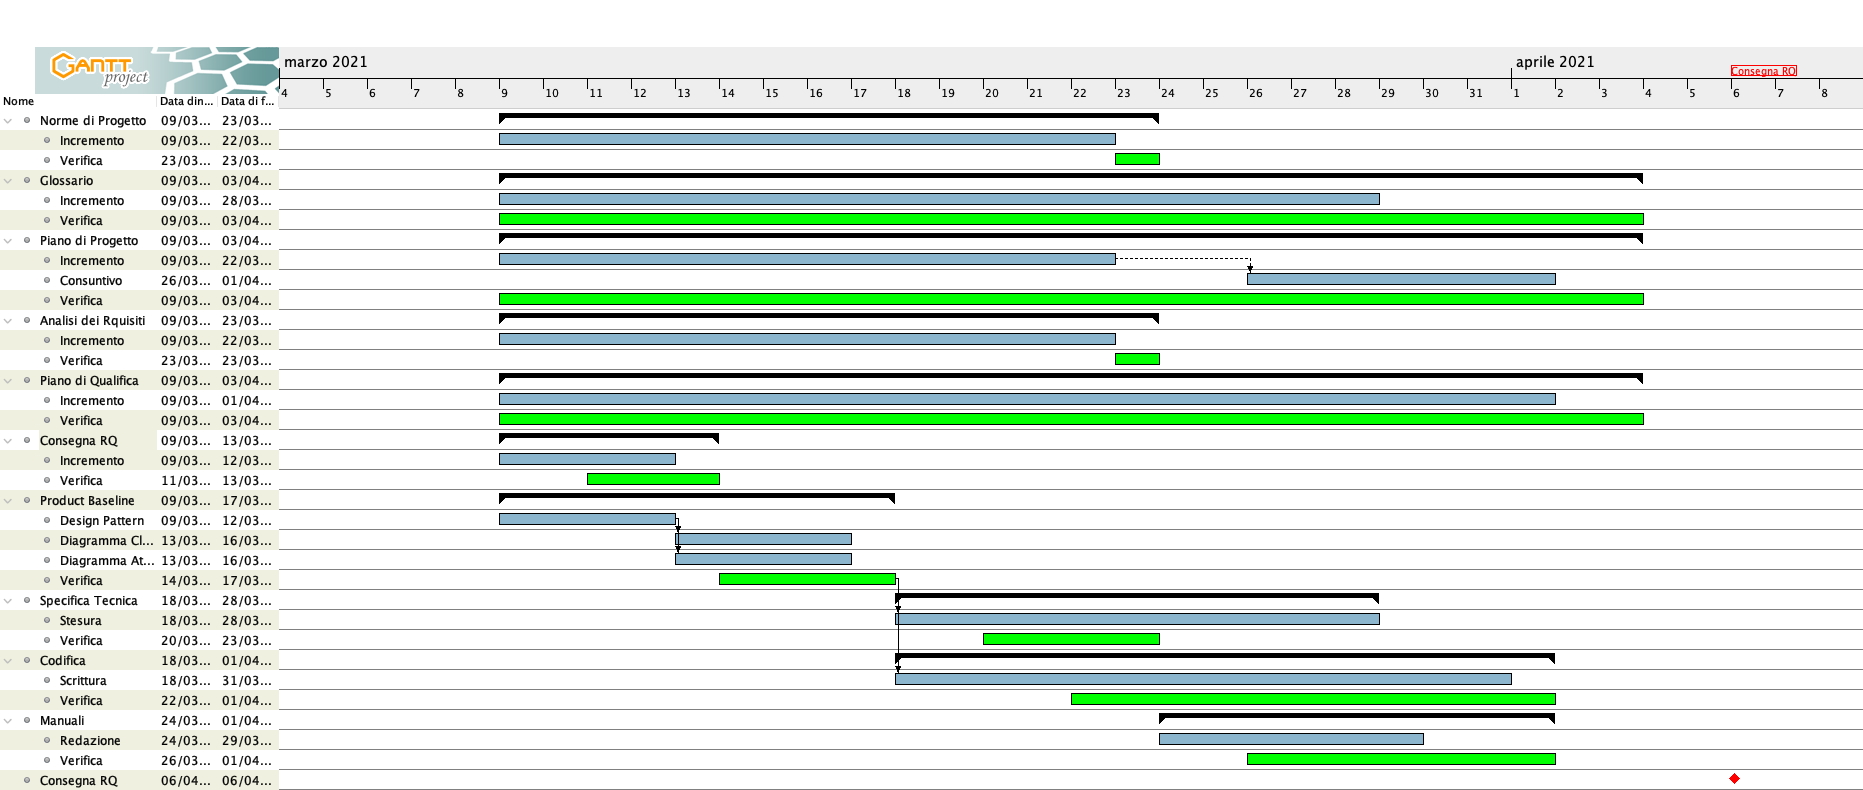
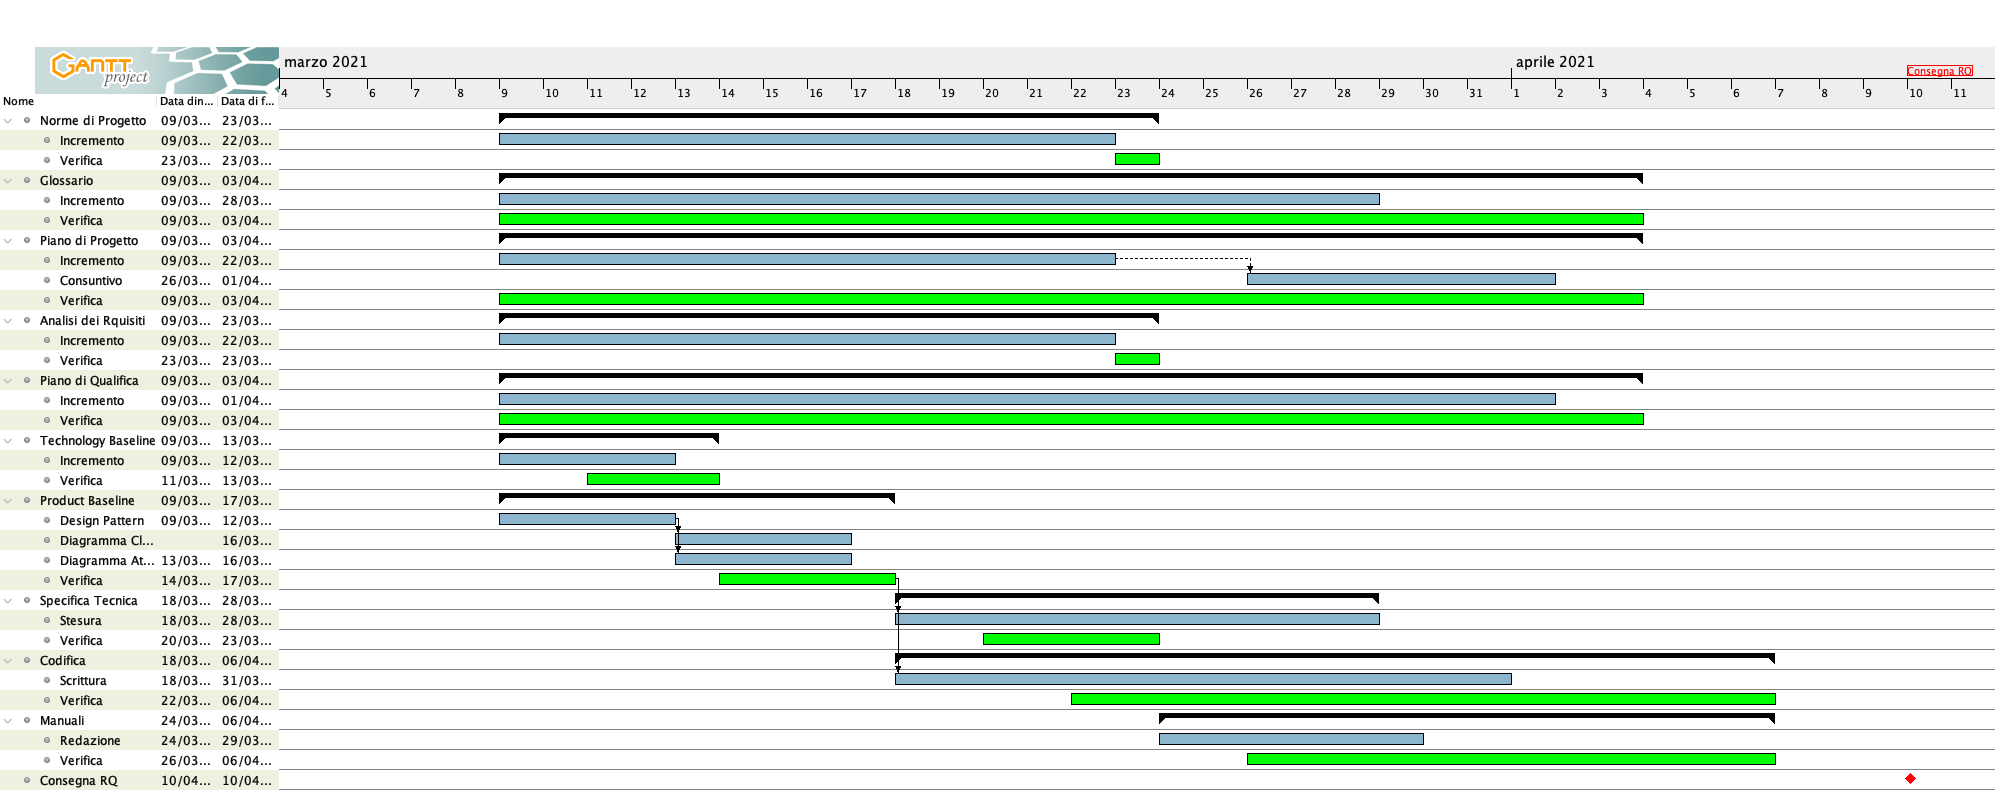
Correzione gantt e inserimento tabella incremento-requisiti

diff --git a/DocumentiPubblici/PianoDiProgetto/Sezioni/Sottosezioni/Pianificazione/ProgettazioneDiDettaglioECodifica.tex b/DocumentiPubblici/PianoDiProgetto/Sezioni/Sottosezioni/Pianificazione/ProgettazioneDiDettaglioECodifica.tex
@@ -17,18 +17,53 @@ Le postcondizioni sono:
 \end{itemize}
 È composto da nuovi incrementi e nuove attività:
 \begin{itemize}
-    \item \textbf{Incremento e verifica dei documenti:} i documenti già prodotti vengono migliorati e aggiornati se necessario ({\NdP}, {\PdP}, {\Glossario}, {\PdQ}, {\AdR});
-    \item \textbf{Incremento e verifica delle attività}: viene migliorata l'attività di \textbf{Technology Baseline}, ampliando lo studio delle tecnologie mancanti e progettando ad alto livello come realizzare il prodotto finale;
-    \item \textbf{Product Baseline:} segue la Technology Baseline ed è formata da 3 incrementi fondamentali per la codifica:
+    \item \textbf{Incremento e verifica dei documenti (dal 2021\_03\_09 al 2021\_03\_26):} i documenti già prodotti vengono migliorati e aggiornati se necessario ({\NdP}, {\PdP}, {\Glossario}, {\PdQ}, {\AdR});
+    \item \textbf{Incremento e verifica delle attività (dal 2021\_03\_09 al 2021\_03\_17)}: viene migliorata l'attività di \glo{TB}, ampliando lo studio delle tecnologie mancanti e progettando ad alto livello come realizzare il prodotto finale;
+    \item \textbf{Product Baseline (dal 2021\_03\_09 al 2021\_03\_17):} segue la Technology Baseline e vengono discussi:
         \begin{itemize}
             \item \textbf{Design pattern}: vengono individuati e discussi in modo da capire quali siano necessari e come riuscire a integrarli al meglio nel progetto;
             \item \textbf{Diagrammi classi}: dopo un'attenta riflessione sul codice vengono realizzati i diagrammi delle classi;
             \item \textbf{Diagrammi attività}: dopo un'attenta riflessione sul codice vengono realizzati i diagrammi delle attività. 
         \end{itemize} 
-    \item \textbf{Specifica tecnica:} viene realizzato un documento contenente tutte le caratteristiche del prodotto e le motivazioni che hanno portato alla loro scelta;
-    \item \textbf{Codifica:} viene scritto il codice con relativa verifica. Questa attività, dato il modello di sviluppo scelto, verrà suddivisa in incrementi che verranno definiti dopo aver preparato il Proof of Concept così da avere una maggiore conoscenza sul lavoro effettivo da svolgere e poter progettare al meglio i vari incrementi;
-    \item \textbf{Manuale utente e manutentore:} documenti redatti rispettivamente per indicare le istruzioni d'uso specifiche per l'utente e per supportare eventuali sviluppatori attraverso la descrizione dell'architettura del sistema.
+    \item \textbf{Specifica tecnica(dal 2021\_03\_18 al 2021\_03\_26):} viene realizzato un documento contenente tutte le caratteristiche del prodotto e le motivazioni che hanno portato alla loro scelta;
+    \item \textbf{Codifica (dal 2021\_03\_18 al 2021\_04\_06):} viene scritto il codice con relativa verifica. Questa attività, dato il modello di sviluppo scelto, verrà suddivisa in 3 incrementi che verranno definiti dopo aver preparato il Proof of Concept così da avere una maggiore conoscenza sul lavoro effettivo da svolgere e poter progettare al meglio i vari incrementi;
+    \item \textbf{Manuale utente e manutentore(dal 2021\_03\_24 al 2021\_04\_06):} documenti redatti rispettivamente per indicare le istruzioni d'uso specifiche per l'utente e per supportare eventuali sviluppatori attraverso la descrizione dell'architettura del sistema.
 \end{itemize}
+\subsubsection{Incrementi del periodo}\label{IncrementiPDettaglio}
+\begin{table}[H]
+	\begin{center}
+		\begin{tabular}{ |C{3cm} C{6cm} C{7cm}| }
+			\rowcolor{darkblue} 
+			\textcolor{white}{\textbf{Incremento}} & \textcolor{white}{\textbf{Obiettivi}} & \textcolor{white}{\textbf{Requisiti}} \\ \hline
+			I dal 2021\_03\_09 al 2021\_03\_17& Miglioramento della documentazione già prodotta, ampliamento dello studio delle tecnologie, studio di \glo{design pattern}, diagrammi delle classi e delle attività.  & - \\ \hline
+			II dal 2021\_03\_18 al 2021\_03\_26 	& Correzione dei documenti post \glo{RP}, redazione dell'allegato tecnico, inizio sviluppo del codice e redazione manuali. &  
+			RFO1\_1 - RFO6\_1.1.5, RFO7\_2 \newline
+			RFO8\_3, RFO9\_4, RFO11\_5 \newline
+			RFO60, RFO61 \newline
+			RFO62\_24 - RFO66\_24.4, RFO67\_25 \newline
+			RF069, RFO70\_26 - RFO77\_26.7 \newline
+			RFO78, RFO79, RFO12\_6, \newline 
+			RFO13\_ 7 - RFO15\_ 7.3, RFO17 \newline RFO18, RFO19, RFO20\_8\newline RFO21\_9, RFO22\_10, RFO23\_11 \newline RFO24, RFO27, RFO28 \newline RFO29\_12, RFO68, RFO80 \newline RFO81, RFO82, RFO84 \\ \hline
+			III dal 2021\_03\_27 al 2021\_04\_01 	& Continuazione nello sviluppo del codice e nella redazione manuali. & RFO85\_27 - RFO91\_27.6 \newline
+			RFO93, RFO94\_28 - RFO101\_28.7 \newline
+			RFO102\_29, RFO103\_30, RFO104\_31 \newline
+			RFO105\_32, RFO106\_33 \newline
+			RFO107\_34 - RFO111\_34.4, RFO112 \newline
+			RFO113\_35 - RFO114\_35.1\newline
+			RFO115\_36 - RFO116\_36.1, RFO117\_37 \newline RFO118\_38, RFO119, RFO26 \newline RFO30\_13, RFO31, RFO32\_14 \newline RFO33\_14, RFO34\_15, RFO35\_16\newline  RFO36, RFO37, RFO41\_17.2 \\ \hline
+			III dal 2021\_04\_01 al 2021\_04\_06 	& 
+			Conclusione della redazione del codice e dei manuali. & RFO25, RFO38\_17, RFO39\_17.1\newline RFO40,
+			RFO42\_18 - RFO46\_18.1.4\newline
+			RFO47\_19 - RFO51\_19.4, RFO52\_20 \newline
+			RFO53, RFO54\_21, RFO55\_21 \newline
+			RFO54\_22, RFO57\_23 - RFO59\_23.2 \newline
+			RFO83, RFO120\_39, RFO121\_39 \newline RFO122\_40, RFO123, RFO124\_41 \newline
+			RFO125\_42, RFO126\_43 - RFO130\_43.2.2 \\ \hline
+		\end{tabular}
+		\caption{Tracciamento incrementi-obiettivi}
+	\end{center}
+\end{table}
+
 \newpage
 \subsubsection{Diagramma di Gantt: Progettazione di dettaglio e codifica} \label{GanttPDettaglio}
 \begin{figure}[ht]

diff --git a/DocumentiInterni/NormeDiProgetto/Sezioni/Appendice.tex b/DocumentiInterni/NormeDiProgetto/Sezioni/Appendice.tex
@@ -1,5 +1,5 @@
 \appendix
-\section{Miglioramento dei processi} %Miglioramento di processo?
+\section{Miglioramento di processo}
 \subsection{SPICE - ISO/IEC 15504}  \label{spice}
 L'ISO/IEC 15504, noto come progetto \textbf{SPICE} (Software Process Improvement and Capability Evaluation), ha come obiettivo quello di sviluppare uno \glo{standard} che consenta valutazioni omogenee di organizzazioni software allo scopo di:
 \begin{itemize}
@@ -66,8 +66,8 @@ A tal fine si individuano quattro passaggi:
 \end{center}
 
 \newpage
-%\section{Miglioramento di prodotto}?
-\section{Standard ISO/IEC 9126}\label{9126}
+\section{Miglioramento del software}
+\subsection{Standard ISO/IEC 9126}\label{9126}
 L'ISO/IEC 9126 è uno standard internazionale per la valutazione della qualità del software, le norme presenti definiscono le caratteristiche che la determinano e propongono metriche per la misurazione.
 Il modello di qualità software stabilito dallo standard considera sei caratteristiche principali da soddisfare, ovvero:
 \begin{itemize}

diff --git a/DocumentiPubblici/PianoDiProgetto/Sezioni/RegistroModifiche.tex b/DocumentiPubblici/PianoDiProgetto/Sezioni/RegistroModifiche.tex
@@ -1,6 +1,8 @@
 \registroModifiche{
 	
-	2.1	  & 2021\_03\_22 & \TG{} & Responsabile & \PC & Aggiornata sezione \S\ref{attualizzazione_dei_rischi}, corretto sezione \S\ref{progettazione_di_dettaglio} e immagine sezione \S\ref{modello_di_sviluppo} e gantt sezione \S\ref{GanttPDettaglio}.\\
+	2.2	  & 2021\_03\_22 & \TG{} & Responsabile & \PC & Aggiornata sezione \S\ref{attualizzazione_dei_rischi}, corretto sezione \S\ref{progettazione_di_dettaglio} e immagine sezione \S\ref{modello_di_sviluppo} e gantt sezione \S\ref{GanttPDettaglio}.\\
+	
+	2.1	  & 2021\_03\_10 & \TG{} & Responsabile & \PC & Redatta sezione \S\ref{IncrementiPDettaglio} e aggiornata sezione \S\ref{progettazione_di_dettaglio}.\\
 	
 	2.0	  & 2021\_03\_06 & \VD{} & Responsabile & - & Approvazione del documento.\\
 	

diff --git a/DocumentiInterni/VerbaliInterni/RQ/VI_2021_03_22/Sezioni/Contenuto.tex b/DocumentiInterni/VerbaliInterni/RQ/VI_2021_03_22/Sezioni/Contenuto.tex
@@ -43,7 +43,7 @@ In seguito alla pubblicazione dell'esito della \glo{RP}, si è deciso di suddivi
 	\item \textbf{VI\_\Data.1} Applicare le soluzioni individuate dopo un confronto con {\Proponente};
 	\item \textbf{VI\_\Data.2} Il gruppo sarà suddiviso nel seguente modo:
 	\begin{itemize}
-		\item {\TL},{\BL} e {\FF} si occuperanno prinipalmente del \glo{back end};
+		\item {\TL},{\BL} e {\FF} si occuperanno principalmente del \glo{back end};
 		\item {\MM},{\PC},{\TG} e {\VD} si occuperanno prevalentemente del \glo{front end}.
 	\end{itemize}.
 \end{itemize}
